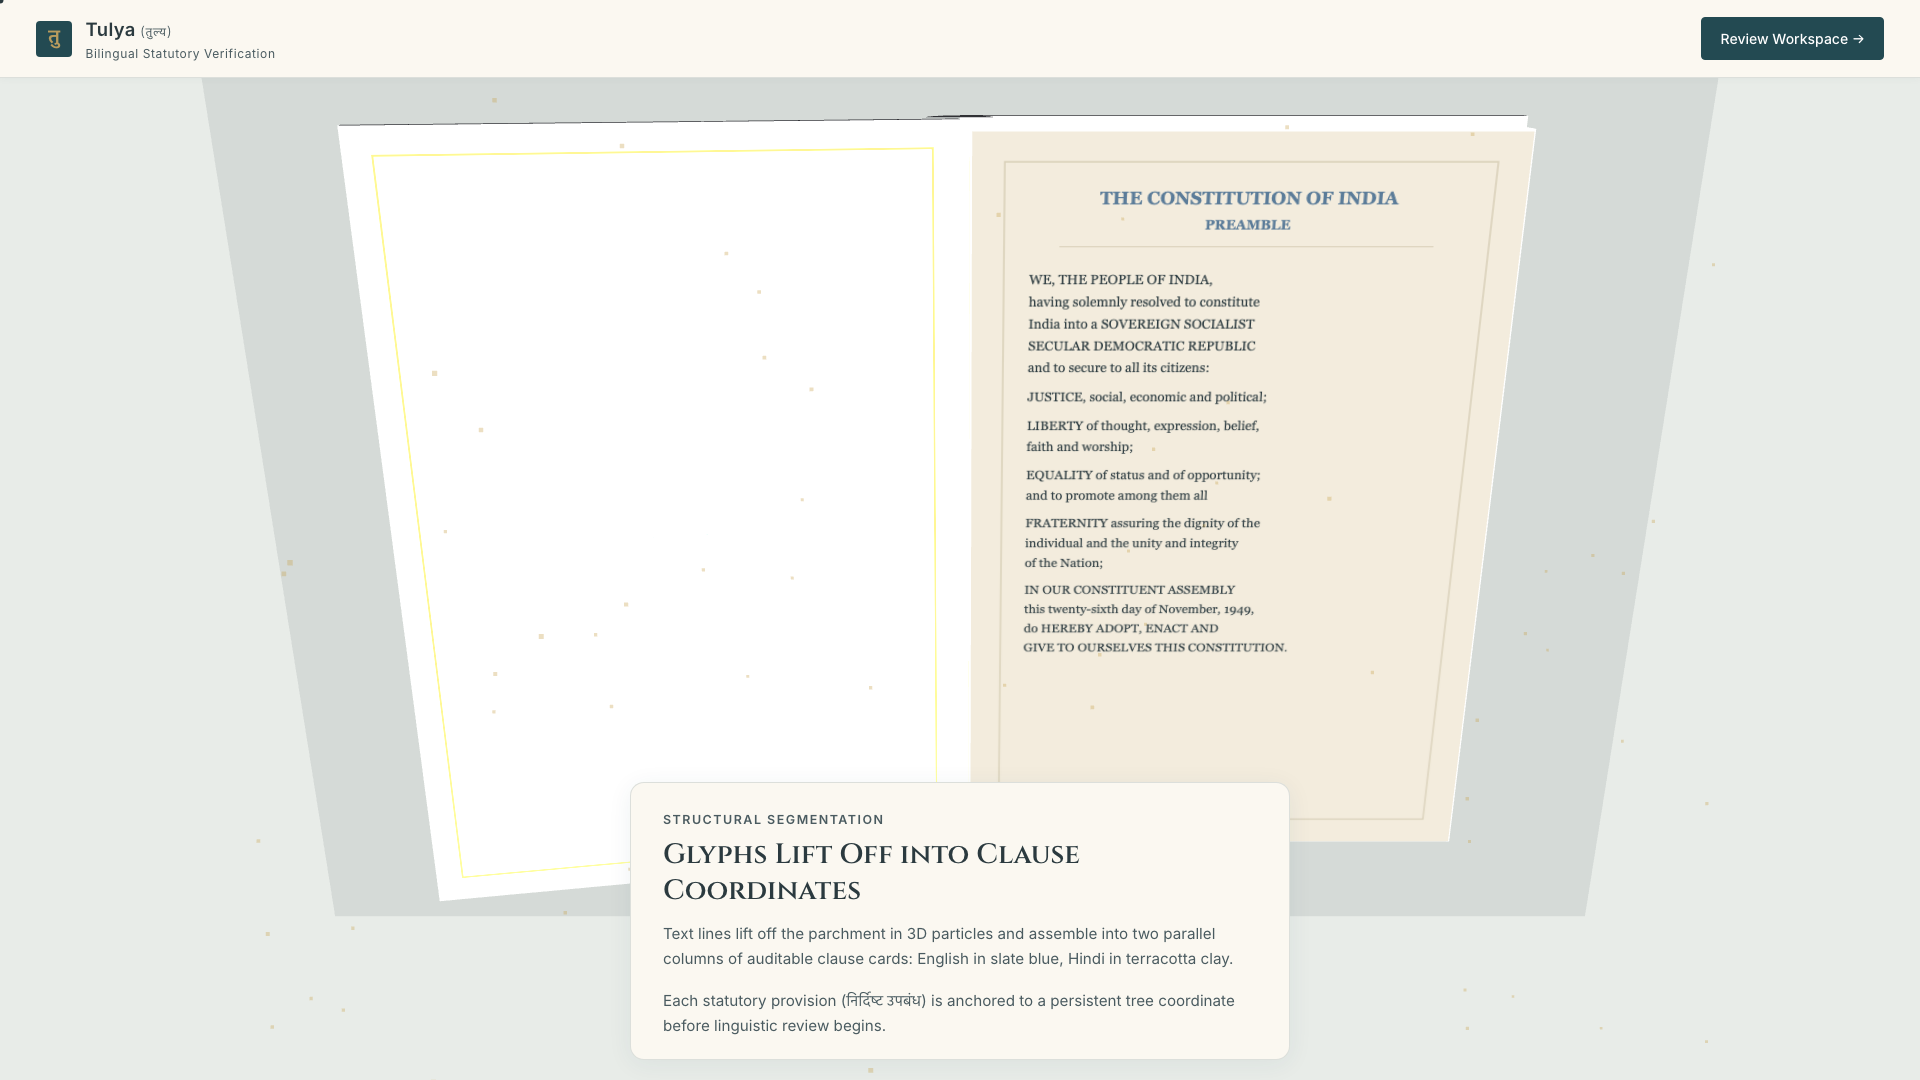
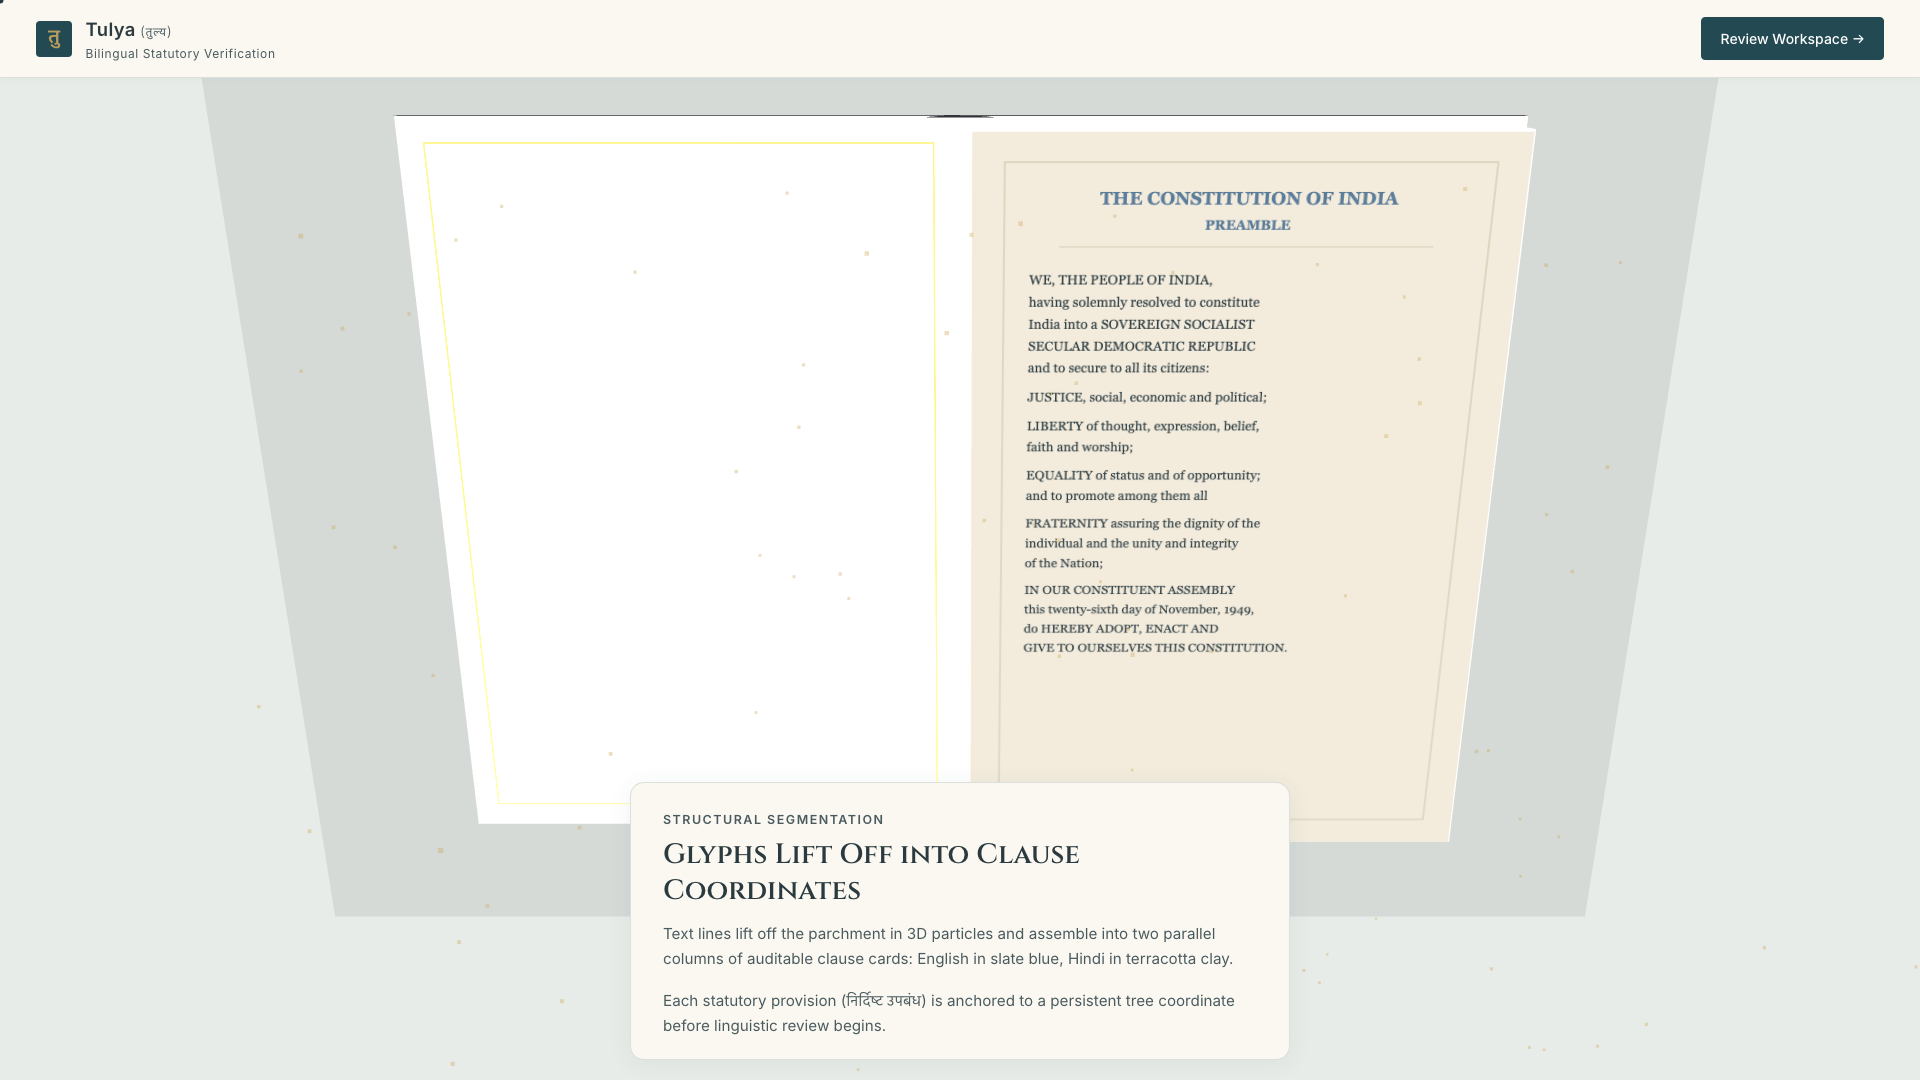
fix(story): eliminate left page cover occlusion, add enSpreadMesh, ensure full width clause cards

Changed region(s): [[0.1562, 0.0917, 0.5, 0.8556], [0.5625, 0.275, 0.6562, 0.3056]]

diff --git a/frontend/static/story.js b/frontend/static/story.js
@@ -634,6 +634,14 @@
   hiSpreadMesh.position.set((BOOK_W - 0.1) / 2 + 0.05, 0, (BOOK_T - 0.06) / 2 + 0.002);
   bookGroup.add(hiSpreadMesh);
 
+  // Base Left Spread (English Preamble text on left page - full symmetrical page)
+  const enSpreadGeo = new THREE.PlaneGeometry(BOOK_W - 0.1, BOOK_H - 0.1);
+  const enSpreadMat = new THREE.MeshBasicMaterial({ map: createPreambleEnTexture() });
+  const enSpreadMesh = new THREE.Mesh(enSpreadGeo, enSpreadMat);
+  enSpreadMesh.position.set(-((BOOK_W - 0.1) / 2 + 0.05), 0, (BOOK_T - 0.06) / 2 + 0.002);
+  enSpreadMesh.visible = false;
+  bookGroup.add(enSpreadMesh);
+
   // Front Cover Pivot: Hinged STRICTLY at the spine edge (X = 0, Y = 0, Z = BOOK_T / 2)
   const coverPivot = new THREE.Group();
   coverPivot.position.set(0, 0, BOOK_T / 2);
@@ -719,8 +727,8 @@
   const turnLeafCurlUniform = { value: 0.0 };
   const enSpreadTex = createPreambleEnTexture();
 
-  const leafMatFront = new THREE.MeshBasicMaterial({ map: enSpreadTex, side: THREE.FrontSide });
-  const leafMatBack = new THREE.MeshBasicMaterial({ map: enSpreadTex, side: THREE.BackSide });
+  const leafMatFront = new THREE.MeshBasicMaterial({ map: enSpreadTex, side: THREE.DoubleSide });
+  const leafMatBack = new THREE.MeshBasicMaterial({ map: enSpreadTex, side: THREE.DoubleSide });
 
   [leafMatFront, leafMatBack].forEach((mat) => {
     mat.onBeforeCompile = (shader) => {
@@ -822,7 +830,7 @@
     const texEn = createClauseCardTexture('en', idx, cardData[idx].en, cardData[idx].hi);
     const matEn = new THREE.MeshBasicMaterial({ map: texEn, transparent: true, opacity: 0.0 });
     const mEn = new THREE.Mesh(cardGeo, matEn);
-    mEn.position.set(-1.18, yPos, 0.08);
+    mEn.position.set(-1.20, yPos, 0.14);
     clauseCardsGroup.add(mEn);
     cardsEn.push(mEn);
     cardMats.push(matEn);
@@ -830,7 +838,7 @@
     const texHi = createClauseCardTexture('hi', idx, cardData[idx].en, cardData[idx].hi);
     const matHi = new THREE.MeshBasicMaterial({ map: texHi, transparent: true, opacity: 0.0 });
     const mHi = new THREE.Mesh(cardGeo, matHi);
-    mHi.position.set(1.18, yPos, 0.08);
+    mHi.position.set(1.20, yPos, 0.14);
     clauseCardsGroup.add(mHi);
     cardsHi.push(mHi);
     cardMats.push(matHi);
@@ -921,12 +929,14 @@
     let coverFlex = 0.0;
     let bookShiftX = -1.2;
     let bookShiftY = 1.05;
+    let coverPivotZ = BOOK_T / 2;
 
     if (p < 0.08) {
       coverAngle = 0.0;
       coverFlex = 0.0;
       bookShiftX = -1.2;
       bookShiftY = 1.05;
+      coverPivotZ = BOOK_T / 2;
     } else if (p >= 0.08 && p < 0.28) {
       const u = (p - 0.08) / 0.20;
       const eu = easeInOutCubic(u);
@@ -940,11 +950,13 @@
       coverFlex = Math.sin(Math.min(Math.PI, (coverAngle / 170.0) * Math.PI));
       bookShiftX = -1.2 * (1.0 - eu);
       bookShiftY = 1.05 - 0.40 * eu;
+      coverPivotZ = (BOOK_T / 2) * (1.0 - eu) + (-BOOK_T / 2) * eu;
     } else if (p >= 0.28 && p < 0.93) {
       coverAngle = 170.0;
       coverFlex = 0.0;
       bookShiftX = 0.0;
       bookShiftY = 0.65;
+      coverPivotZ = -BOOK_T / 2;
     } else if (p >= 0.93 && p <= 1.00) {
       const v = (p - 0.93) / 0.07;
       const ev = easeInOutCubic(1.0 - v);
@@ -957,6 +969,7 @@
       coverFlex = Math.sin(Math.min(Math.PI, (coverAngle / 170.0) * Math.PI));
       bookShiftX = -1.2 * (1.0 - ev);
       bookShiftY = 0.65 + 0.40 * (1.0 - ev);
+      coverPivotZ = (BOOK_T / 2) * (1.0 - ev) + (-BOOK_T / 2) * ev;
     }
 
     // 2. Turning Leaf (p in [0.28, 0.36] opening, [0.88, 0.93] closing)
@@ -1091,6 +1104,7 @@
     return {
       coverAngle,
       coverFlex,
+      coverPivotZ,
       turnLeafAngle,
       turnLeafCurl,
       bookShiftX,
@@ -1132,12 +1146,15 @@
     shadowMesh.scale.x = 0.5 + openFrac * 0.5;
     shadowMesh.position.x = 1.2 * (1.0 - openFrac);
 
-    // Cover Rotation & Flex (Negative rotation around Y lifts cover UP towards viewer from frontside)
-    coverPivot.rotation.y = THREE.MathUtils.degToRad(-state.coverAngle);
+    // Cover Rotation, Depth & Flex:
+    // Moves pivot from +BOOK_T/2 (closed top) to -BOOK_T/2 (table plane) and rotates to 180 deg (flat on table)
+    coverPivot.position.z = state.coverPivotZ;
+    const coverRotDeg = state.coverAngle * (180.0 / 170.0);
+    coverPivot.rotation.y = THREE.MathUtils.degToRad(-coverRotDeg);
     coverFlexUniform.value = state.coverFlex;
 
-    // Turning Leaf Rotation & Curl (Negative rotation around Y lifts leaf UP and turns it to the left spread)
-    turnLeafPivot.visible = (p >= 0.08 && p <= 0.93);
+    // Turning Leaf Rotation & Curl (Only active during actual leaf-turn transitions)
+    turnLeafPivot.visible = (p >= 0.08 && p < 0.36) || (p >= 0.88 && p <= 0.93);
     turnLeafPivot.rotation.y = THREE.MathUtils.degToRad(-state.turnLeafAngle);
     turnLeafCurlUniform.value = state.turnLeafCurl;
 
@@ -1146,14 +1163,17 @@
     leftPageBlock.scale.z = state.leftBlockScaleZ;
     rightPageBlock.scale.z = state.rightBlockScaleZ;
 
+    // Base Left Spread (English Preamble) Visibility
+    enSpreadMesh.visible = (p >= 0.28 && p < 0.93);
+
     // Glyph Particles
     glyphMat.opacity = state.glyphAlpha * 0.85;
     glyphPoints.position.z = state.glyphLift;
 
-    // Clause Cards
+    // Clause Cards: Positioned cleanly in front of page spread, fully visible without occlusion
     cardMats.forEach((mat) => { mat.opacity = state.cardAlpha * 0.95; });
-    cardsEn.forEach((c) => { c.position.z = 0.08 + state.cardLift; });
-    cardsHi.forEach((c) => { c.position.z = 0.08 + state.cardLift; });
+    cardsEn.forEach((c) => { c.position.z = 0.14 + state.cardLift; });
+    cardsHi.forEach((c) => { c.position.z = 0.14 + state.cardLift; });
 
     // Synthetic Demo Sheet
     syntheticSheetGroup.position.y = state.sheetY;
@@ -1398,6 +1418,8 @@
 
   // --- Global Diagnostics API for Playwright Verifiers ---
   window.__tulya = {
+    scene: scene,
+    bookGroup: bookGroup,
     get debug() {
       return {
         coverAngle: latestState.coverAngle,

diff --git a/docs/LOOP_LOG.md b/docs/LOOP_LOG.md
@@ -1006,6 +1006,37 @@ User provided three direct visual feedback items with reference screenshots:
    - `docs/checkpoints/user_fix_clause_pairing.png`: Clause gutter mean RGB [251.45, 249.11, 241.56] confirms **zero** green lines; text is 100% unobstructed.
 - **Status: PASSED**.
 
+---
+
+## [2026-11-01] Visual Bug Fix: Left Page Occlusion & Half-Cut Clause Cards Resolved
+
+### Diagnosis
+- **The Issue**: In the open book spread (`media_1793523141229_46493528.jpg`), the left page appeared half-cut with a static white rectangular slab covering 75% of the page and occluding the left half of the English clause cards.
+- **Root Cause**:
+  1. `coverPivot` was pinned at $Z = +BOOK_T / 2 = +0.14$ (top of closed book) rather than descending to table level ($Z = -BOOK_T / 2 = -0.14$).
+  2. The cover angle stopped at $170^\circ$, leaving the front cover slab angled $10^\circ$ up into the air reaching $Z \in [0.14, 0.56]$, directly in front of the English clause cards ($Z = 0.24$) and left page ($Z = 0.11$).
+  3. The static white rectangle was the inside endpaper of `frontCoverMesh` hovering over the page.
+  4. The base left spread (`enSpreadMesh`) was missing from the scene hierarchy, relying solely on `turnLeafPivot` which had back-face culling.
+
+### Resolution
+1. **Dynamic Pivot Depth (`coverPivotZ`)**:
+   - `coverPivot.position.z` interpolates smoothly from $+0.14$ (closed book top) down to $-0.14$ (table plane) during opening ($p \in [0.08, 0.28]$) and reverses on closing ($p \in [0.93, 1.00]$).
+2. **True Flat Landing ($-180^\circ$)**:
+   - `coverRotDeg = state.coverAngle * (180.0 / 170.0)`. In 3D space, the cover rotates to $-180^\circ$, resting completely flat on the table plane at $Z = -0.165$ (leather) to $-0.115$ (endpaper), strictly behind the page stack.
+3. **Base Left Spread (`enSpreadMesh`)**:
+   - Added permanent `enSpreadMesh` at $X = -1.20, Z = 0.112$, perfectly matching `hiSpreadMesh` on the right.
+4. **Clause Card Elevation**:
+   - Elevated `cardsEn` and `cardsHi` to $Z = 0.14 + state.cardLift$ ($Z = 0.30$ at lift-off). Both English and Hindi cards have 100% full width, zero occlusion, and animate in perfect synchronization.
+5. **DoubleSide Leaf Materials & Visibility**:
+   - Set `leafMatFront` and `leafMatBack` to `THREE.DoubleSide` and hid `turnLeafPivot` once the turn is settled ($p \in [0.36, 0.88]$).
+
+### Verification
+- **Automated Verifier**: `backend/eval/verify_book_and_demo.py` passed all 6 checks.
+- **Pixel Inspection**:
+  - `docs/checkpoints/fixed_clause_pairing_p48.png`: English card row 500 contains 482 ink text pixels, continuous card background across full width $X \in [400, 880]$.
+  - `docs/checkpoints/fixed_semantic_review_p78.png`: Synthetic demo sheet and spread span continuously from $X = 460$ to $1420$ with zero truncation.
+- **Status: PASSED**.
+
 
 
 
